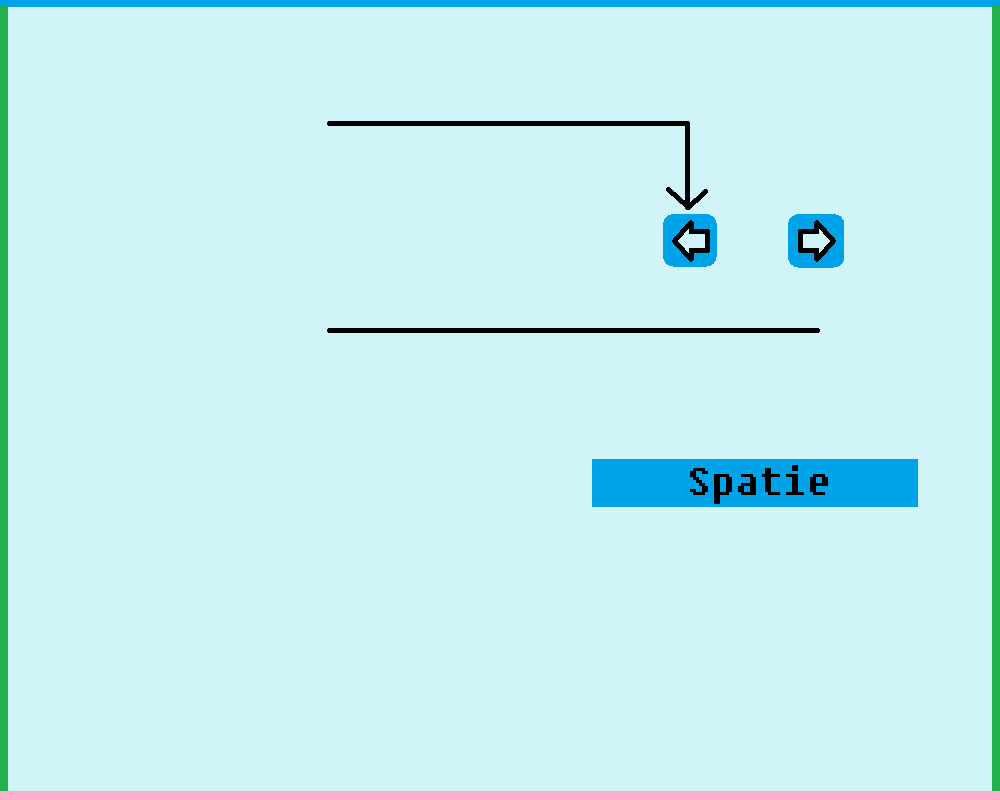
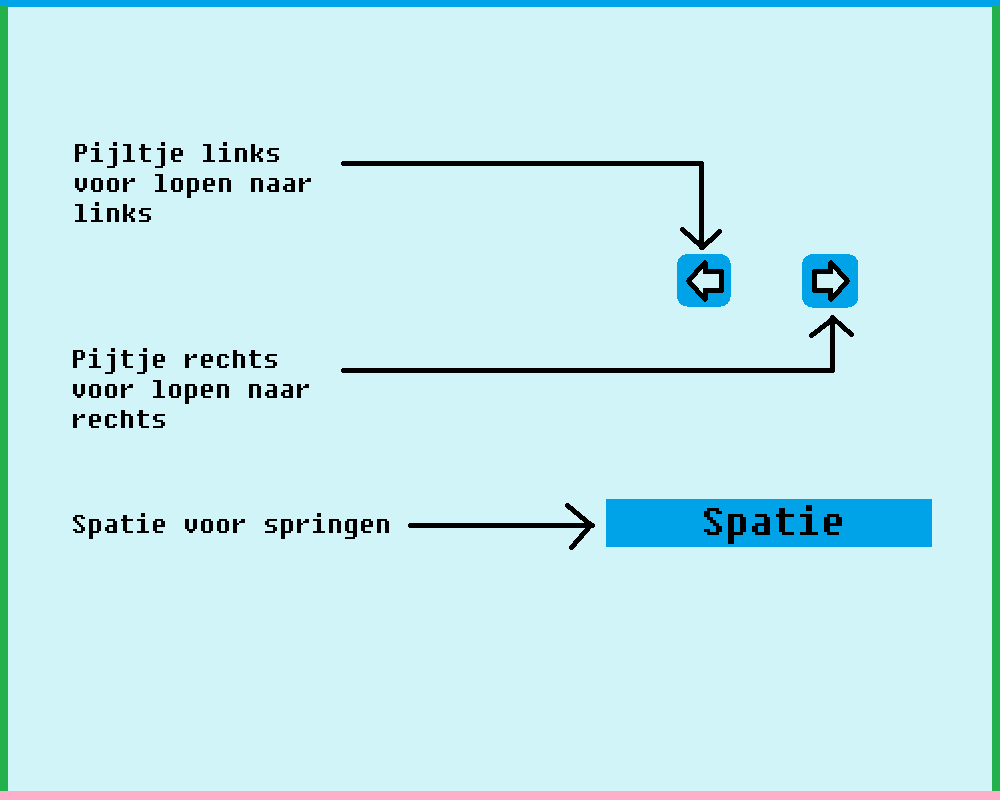
Dingen bijgewerkt voor control en informatie scherm.

diff --git a/ReturnButton2.java b/ReturnButton2.java
@@ -1,0 +1,24 @@
+import greenfoot.*;  // (World, Actor, GreenfootImage, Greenfoot and MouseInfo)
+import java.util.List;
+
+public class ReturnButton2 extends Actor {
+    private boolean onThis = false;
+    
+    public ReturnButton2() {
+        GreenfootImage image = getImage();
+        image.scale(image.getWidth() - 50, image.getHeight() - 50);
+        setImage(image);
+    }
+    public void act() {
+        if(Greenfoot.mouseMoved(null))
+            onThis = Greenfoot.mouseMoved(this);
+        if(onThis)
+            setImage("ReturnButton2.png"); 
+        else
+            setImage("ReturnButton1.png"); 
+        if (Greenfoot.mouseClicked(this)) {
+            Greenfoot.setWorld(new Titlescreen());
+        }
+    }
+}    
+

diff --git a/ControlsScherm.java b/ControlsScherm.java
@@ -3,8 +3,8 @@ import greenfoot.*;  // (World, Actor, GreenfootImage, Greenfoot and MouseInfo)
 public class ControlsScherm extends World {
     public ControlsScherm() {    
        super(1000, 800, 1); 
-       setBackground("bg.png");
+       setBackground("ControlsScherm.png");
        
-       //addObject(new ReturnButton(), 200, 650); 
+       addObject(new ReturnButton(), 200, 650); 
     }
 }

diff --git a/InformatieScherm.java b/InformatieScherm.java
@@ -1,0 +1,10 @@
+import greenfoot.*;  // (World, Actor, GreenfootImage, Greenfoot and MouseInfo)
+
+public class InformatieScherm extends World {
+    public InformatieScherm() {    
+       super(1000, 800, 1); 
+       setBackground("InformatieScherm.png");
+       
+       //addObject(new ReturnButton(), 200, 650); 
+    }
+}

diff --git a/Informatie.java b/Informatie.java
@@ -11,7 +11,7 @@ public class Informatie extends Actor {
         else
             setImage("informatie1.png"); 
         if (Greenfoot.mouseClicked(this)) {
-            Greenfoot.setWorld(new ControlsScherm());
+            Greenfoot.setWorld(new InformatieScherm());
         }    
     }    
 }

diff --git a/Controls.java b/Controls.java
@@ -11,7 +11,7 @@ public class Controls extends Actor {
         else
             setImage("controls1.png"); 
         if (Greenfoot.mouseClicked(this)) {
-            Greenfoot.setWorld(new Level2());
+            Greenfoot.setWorld(new ControlsScherm());
         }    
     }    
 }
